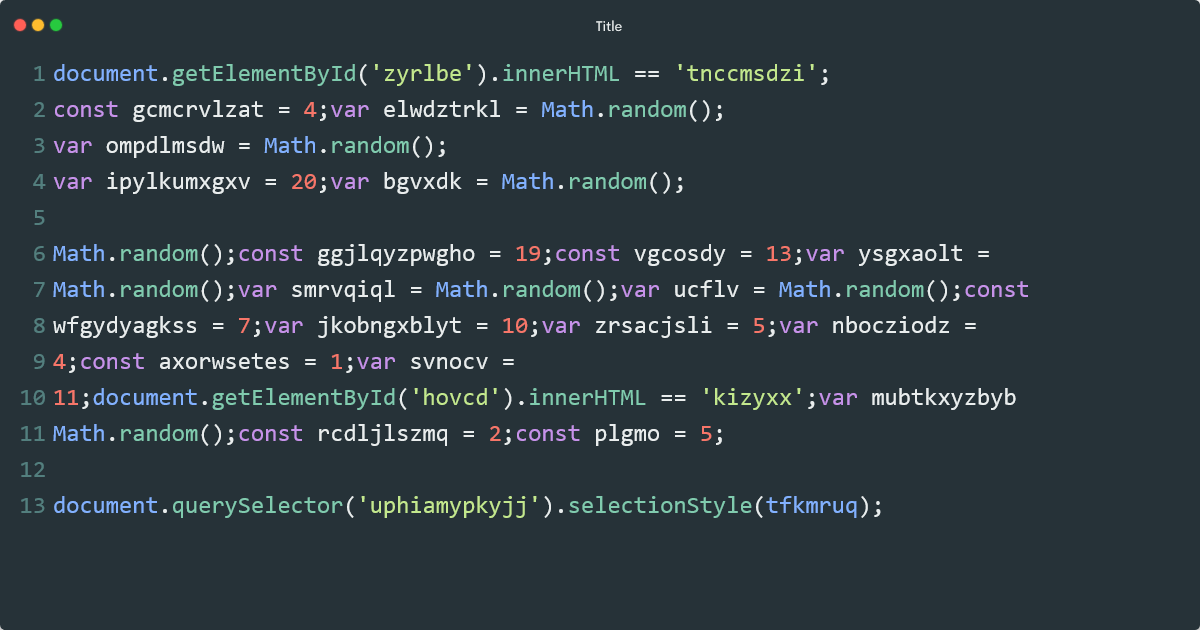
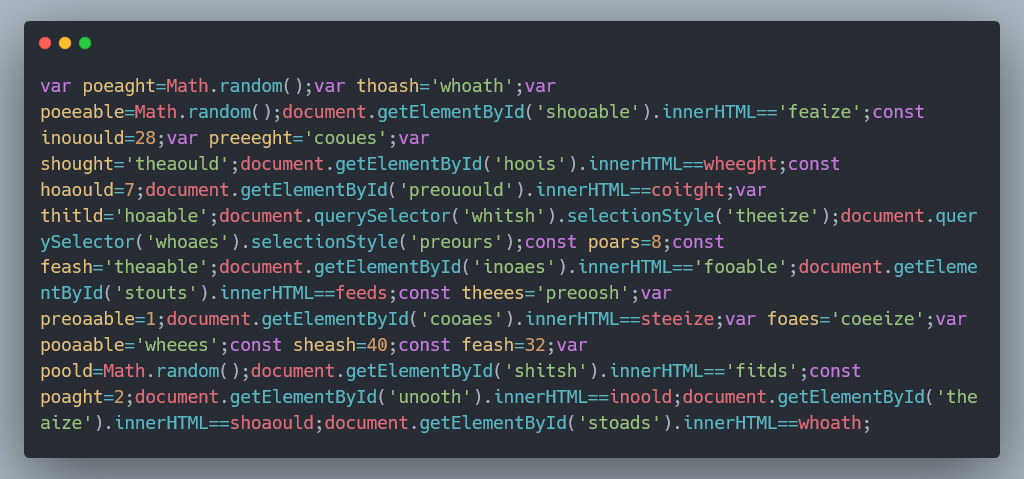
replaced string generator with a more natural word generation method

diff --git a/kryptos.js b/kryptos.js
@@ -1,4 +1,6 @@
-const letters = ['a', 'b', 'c', 'd', 'e', 'f', 'g', 'h', 'i', 'j', 'k', 'l', 'm', 'n', 'o', 'p', 'q', 'r', 's', 't', 'u', 'v', 'w', 'x', 'y', 'z'];
+const snips = ['ou', 'ea', 'it', 'oo', 'ee', 'oa'];
+const prefix = ['sh', 'wh', 'st', 'th', 'pre', 'un', 'in', 'co', 'po', 'f', 'h', 'p'];
+const suffix = ['th', 'sh', 'ould', 'ld', 'ts', 'ght', 'is', 'ds', 'es', 'able', 'ize', 'rs'];
 var string_len = 0;
 var string = '';
 var string2 = '';
@@ -9,20 +11,14 @@ Array.prototype.random = function () {
   return this[Math.floor((Math.random()*this.length))];
 }
 
-export function gen(length) {
+function gen(length) {
   output = '';
   for (i=0; i<length; i++) {
     string = '';
     string2 = ''; 
     num = Math.floor(Math.random() * (50 - 0 + 1) + 0);
-    string_len = Math.floor(Math.random() * (12 - 5 + 1) + 5);
-    for (k=0; k<string_len; k++) {
-      string += letters.random();
-    }
-    string_len = Math.floor(Math.random() * (12 - 5 + 1) + 5);
-    for (k=0; k<string_len; k++) {
-      string2 += letters.random();
-    }
+    string += prefix.random()+snips.random()+suffix.random();
+    string2 += prefix.random()+snips.random()+suffix.random();
     let number = Math.floor(Math.random() * 8) + 1;
     switch(number) {
       case 1:
@@ -49,9 +45,18 @@ export function gen(length) {
       case 8:
         output += "const "+string+"='"+string2+"';";
         break;
+      case 9:
+        output += "javascript.alert('"+string2+"');";
+        break;
+      case 10:
+        output += "console.log('"+string2+"');";
+        break;
+      case 1:
+        output += "window.close()";
+        break;
     }
   }
 }
 
-gen(50);
+gen(30);
 console.log(output);
